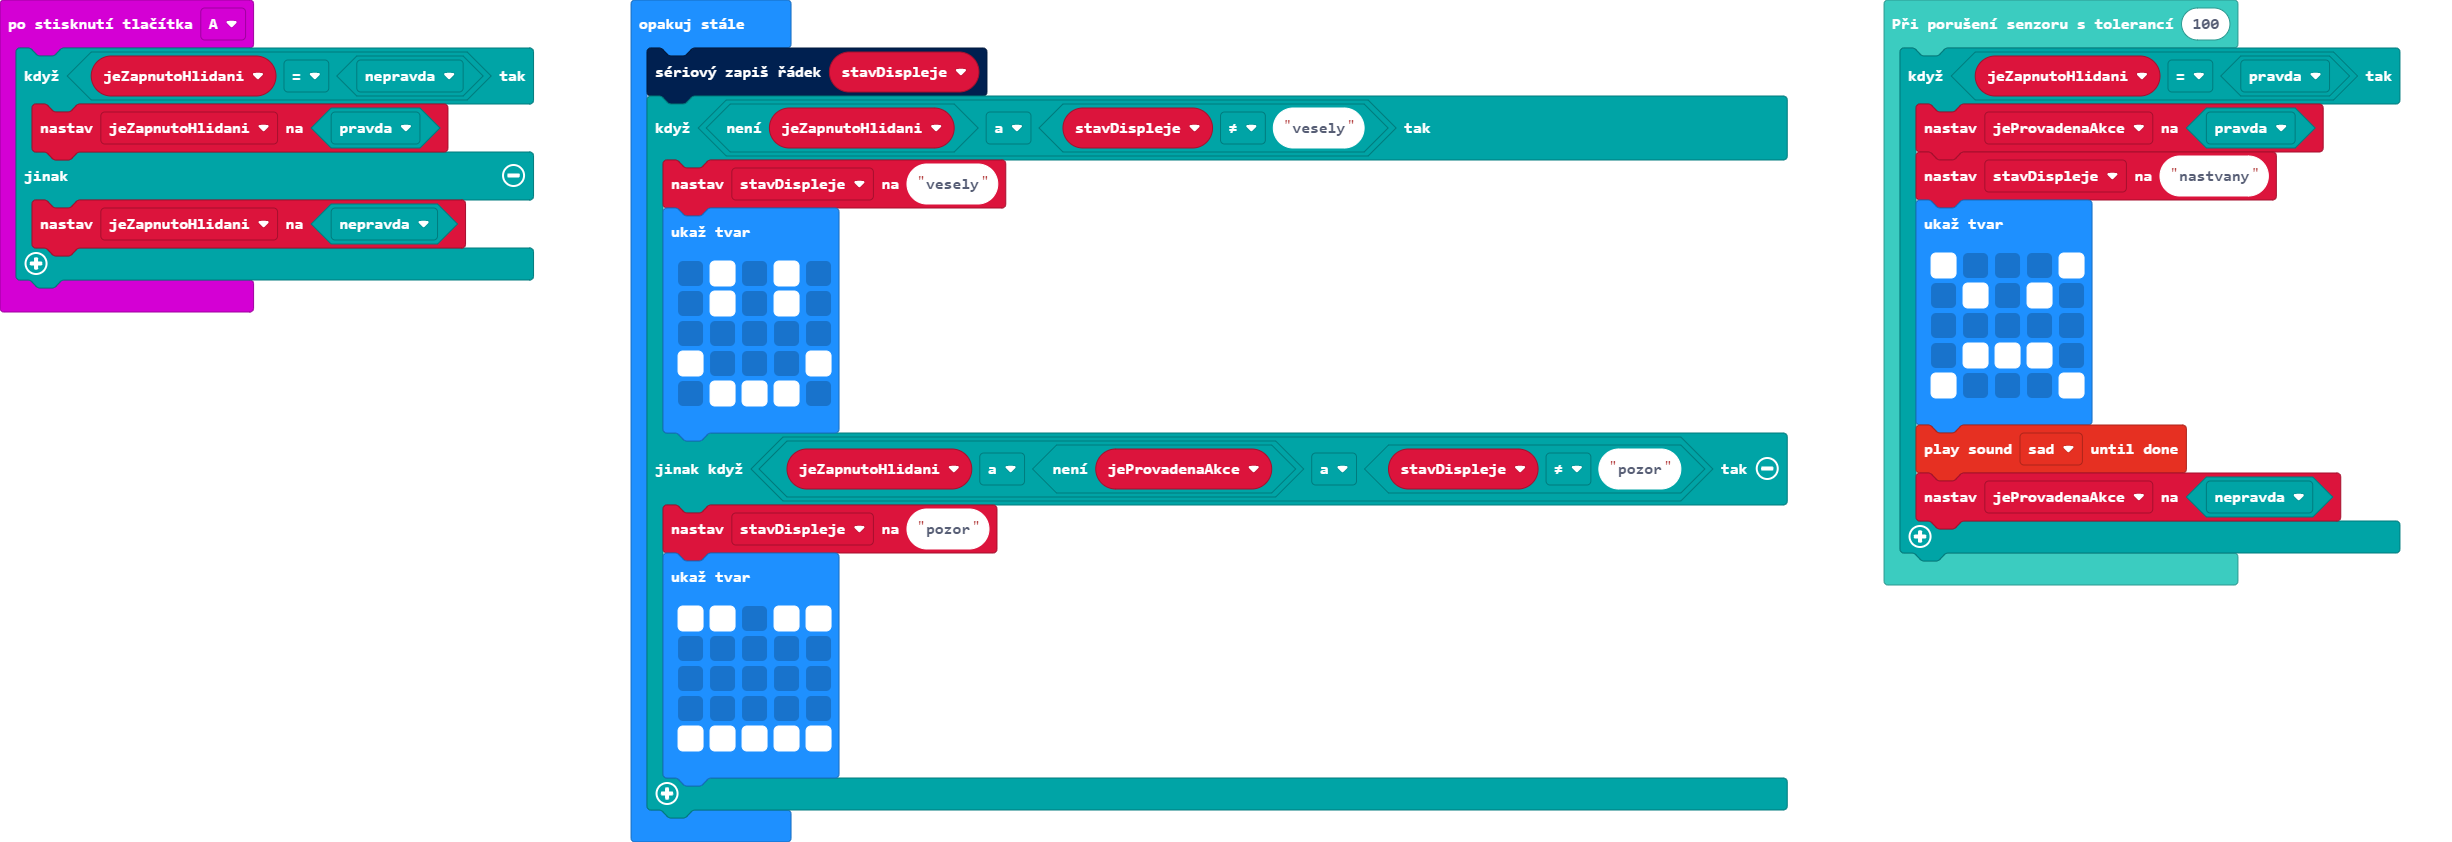
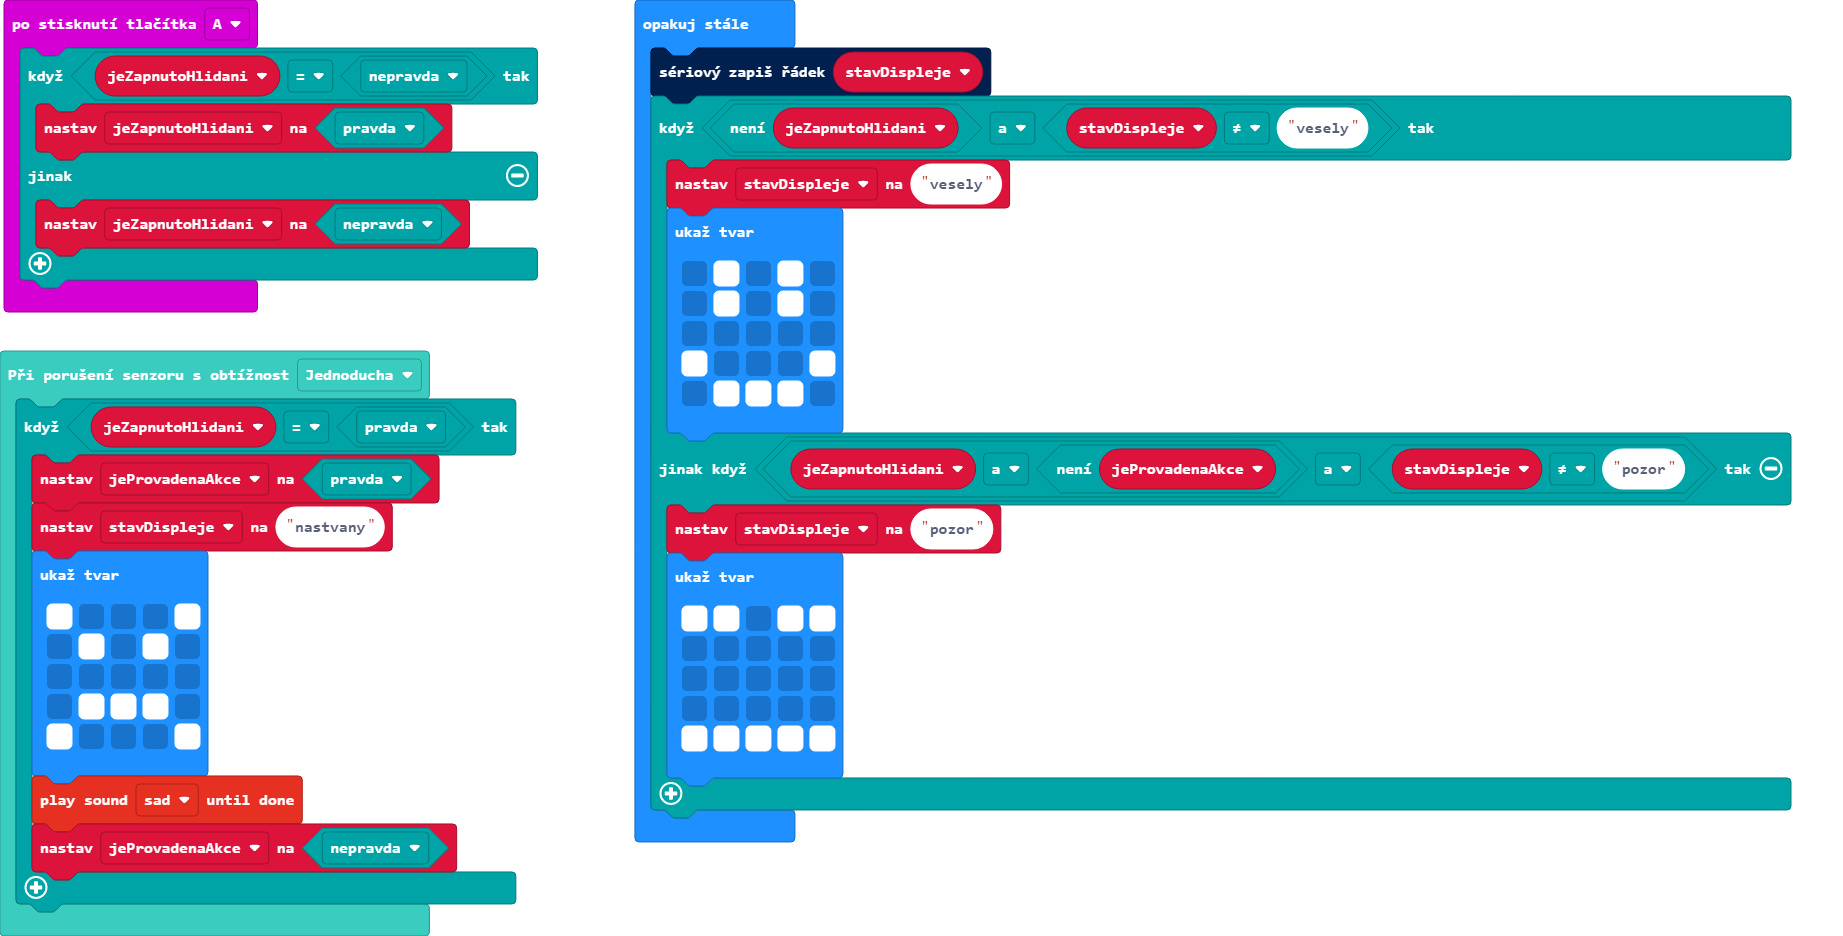
Aktualizovat pxt.json, main.blocks, main.ts, mikado.ts

diff --git a/mikado.ts b/mikado.ts
@@ -1,15 +1,21 @@
+enum Difficulty {
+    Jednoducha = 500,
+    Stredni = 200,
+    Tezka = 100,
+}
+
 //% weight=100 color=#3bccc0 icon="\uf11b" block="Mikado"
 namespace Mikado {
     let zamekAkce = false;
 
     /**
     * Zkontroluje, jestli nedošlo k pohybu
-    * @tolerance Tolerance akcelerace
+    * @obtiznost Obtížnost hry
     * @akce Příkazy, které se provedou při moc velké/malé akceleraci
     */
-    //% block="Při porušení senzoru s tolerancí %tolerance"
-    export function kdyzJeVzbuzenHlidac(tolerance: number, akce: () => void) {
-        const eventID = 111 + Math.randomRange(0, 100); // semi-unique
+    //% block="Při porušení senzoru s obtížnost %obtiznost"
+    export function kdyzJeVzbuzenHlidac(obtiznost: Difficulty, akce: () => void) {
+        const eventID = 111 + Math.randomRange(0, 100);
 
         control.onEvent(eventID, 0, function () {
             control.inBackground(() => {
@@ -22,7 +28,8 @@ namespace Mikado {
         control.inBackground(() => {
             while (true) {
                 let akcelerace = input.acceleration(Dimension.Strength);
-                if (!zamekAkce && (akcelerace + tolerance < 1023 || akcelerace - tolerance > 1023)) {
+                serial.writeLine("" + akcelerace)
+                if (!zamekAkce && (akcelerace + obtiznost < 1023 || akcelerace - obtiznost > 1023)) {
                     control.raiseEvent(eventID, 1)
                 }
                 basic.pause(20)

diff --git a/main.ts b/main.ts
@@ -1,14 +1,7 @@
 let jeZapnutoHlidani = false
 let jeProvadenaAkce = false
 let stavDispleje = ""
-input.onButtonPressed(Button.A, function () {
-    if (jeZapnutoHlidani == false) {
-        jeZapnutoHlidani = true
-    } else {
-        jeZapnutoHlidani = false
-    }
-})
-Mikado.kdyzJeVzbuzenHlidac(100, function () {
+Mikado.kdyzJeVzbuzenHlidac(Difficulty.Jednoducha, function () {
     if (jeZapnutoHlidani == true) {
         jeProvadenaAkce = true
         stavDispleje = "nastvany"
@@ -21,6 +14,13 @@ Mikado.kdyzJeVzbuzenHlidac(100, function () {
             `)
         soundExpression.sad.playUntilDone()
         jeProvadenaAkce = false
+    }
+})
+input.onButtonPressed(Button.A, function () {
+    if (jeZapnutoHlidani == false) {
+        jeZapnutoHlidani = true
+    } else {
+        jeZapnutoHlidani = false
     }
 })
 basic.forever(function () {
